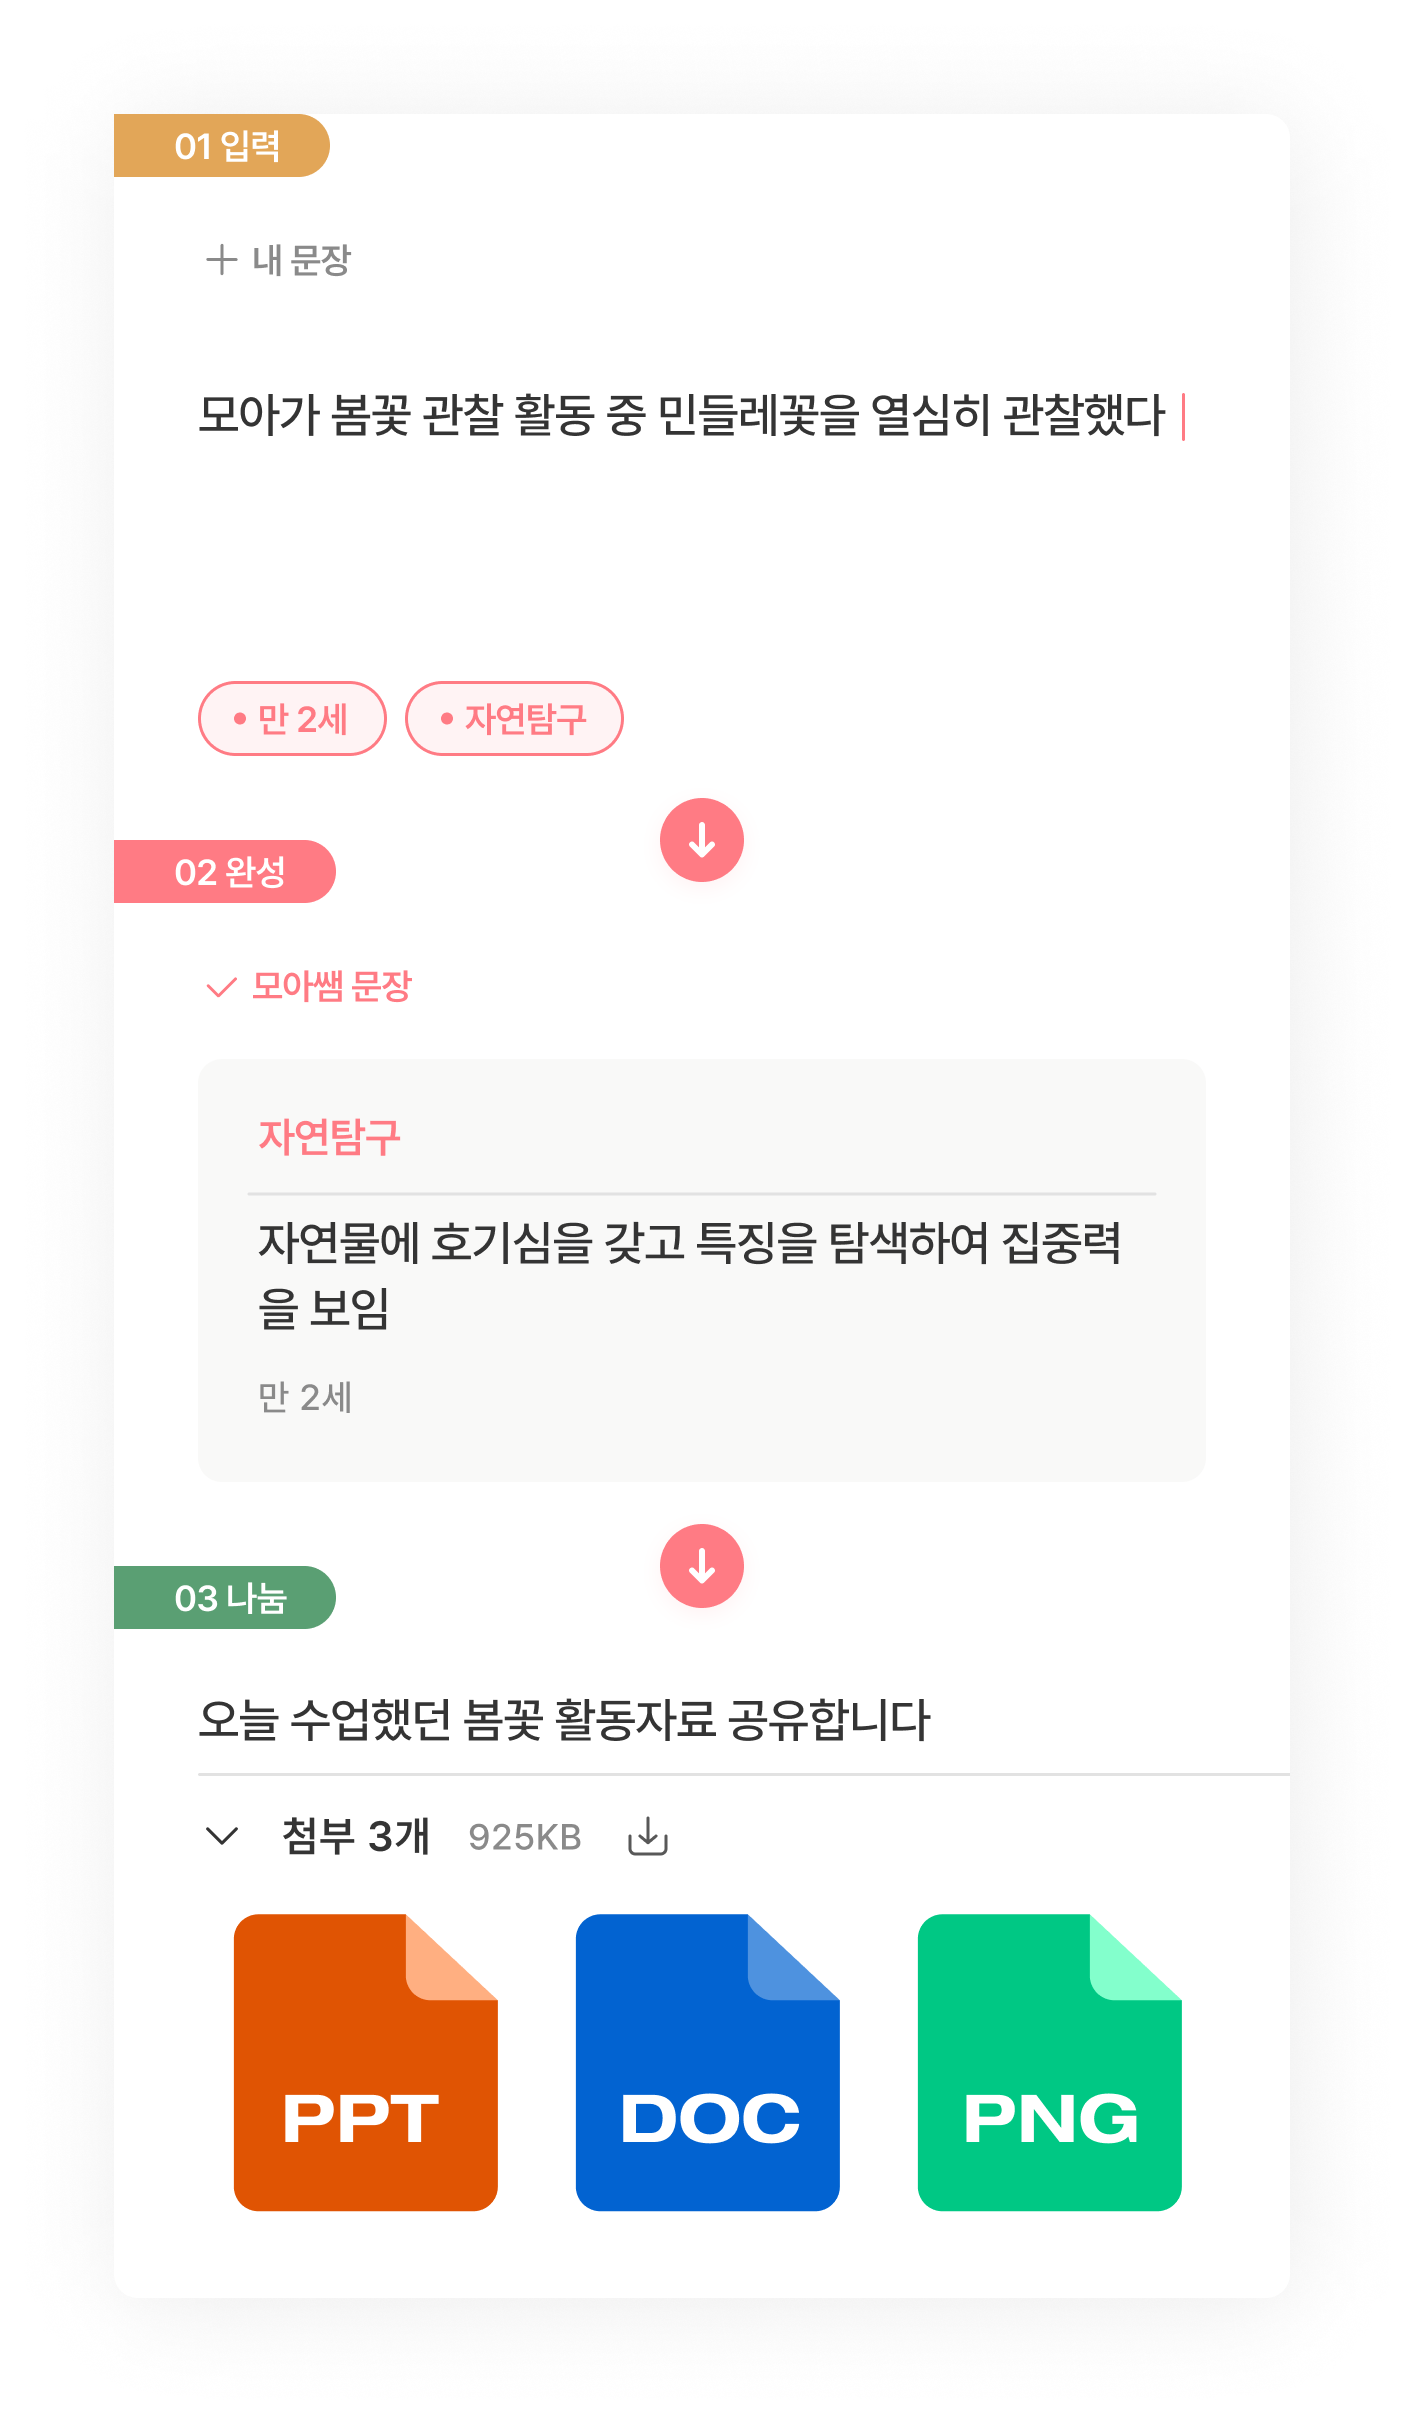
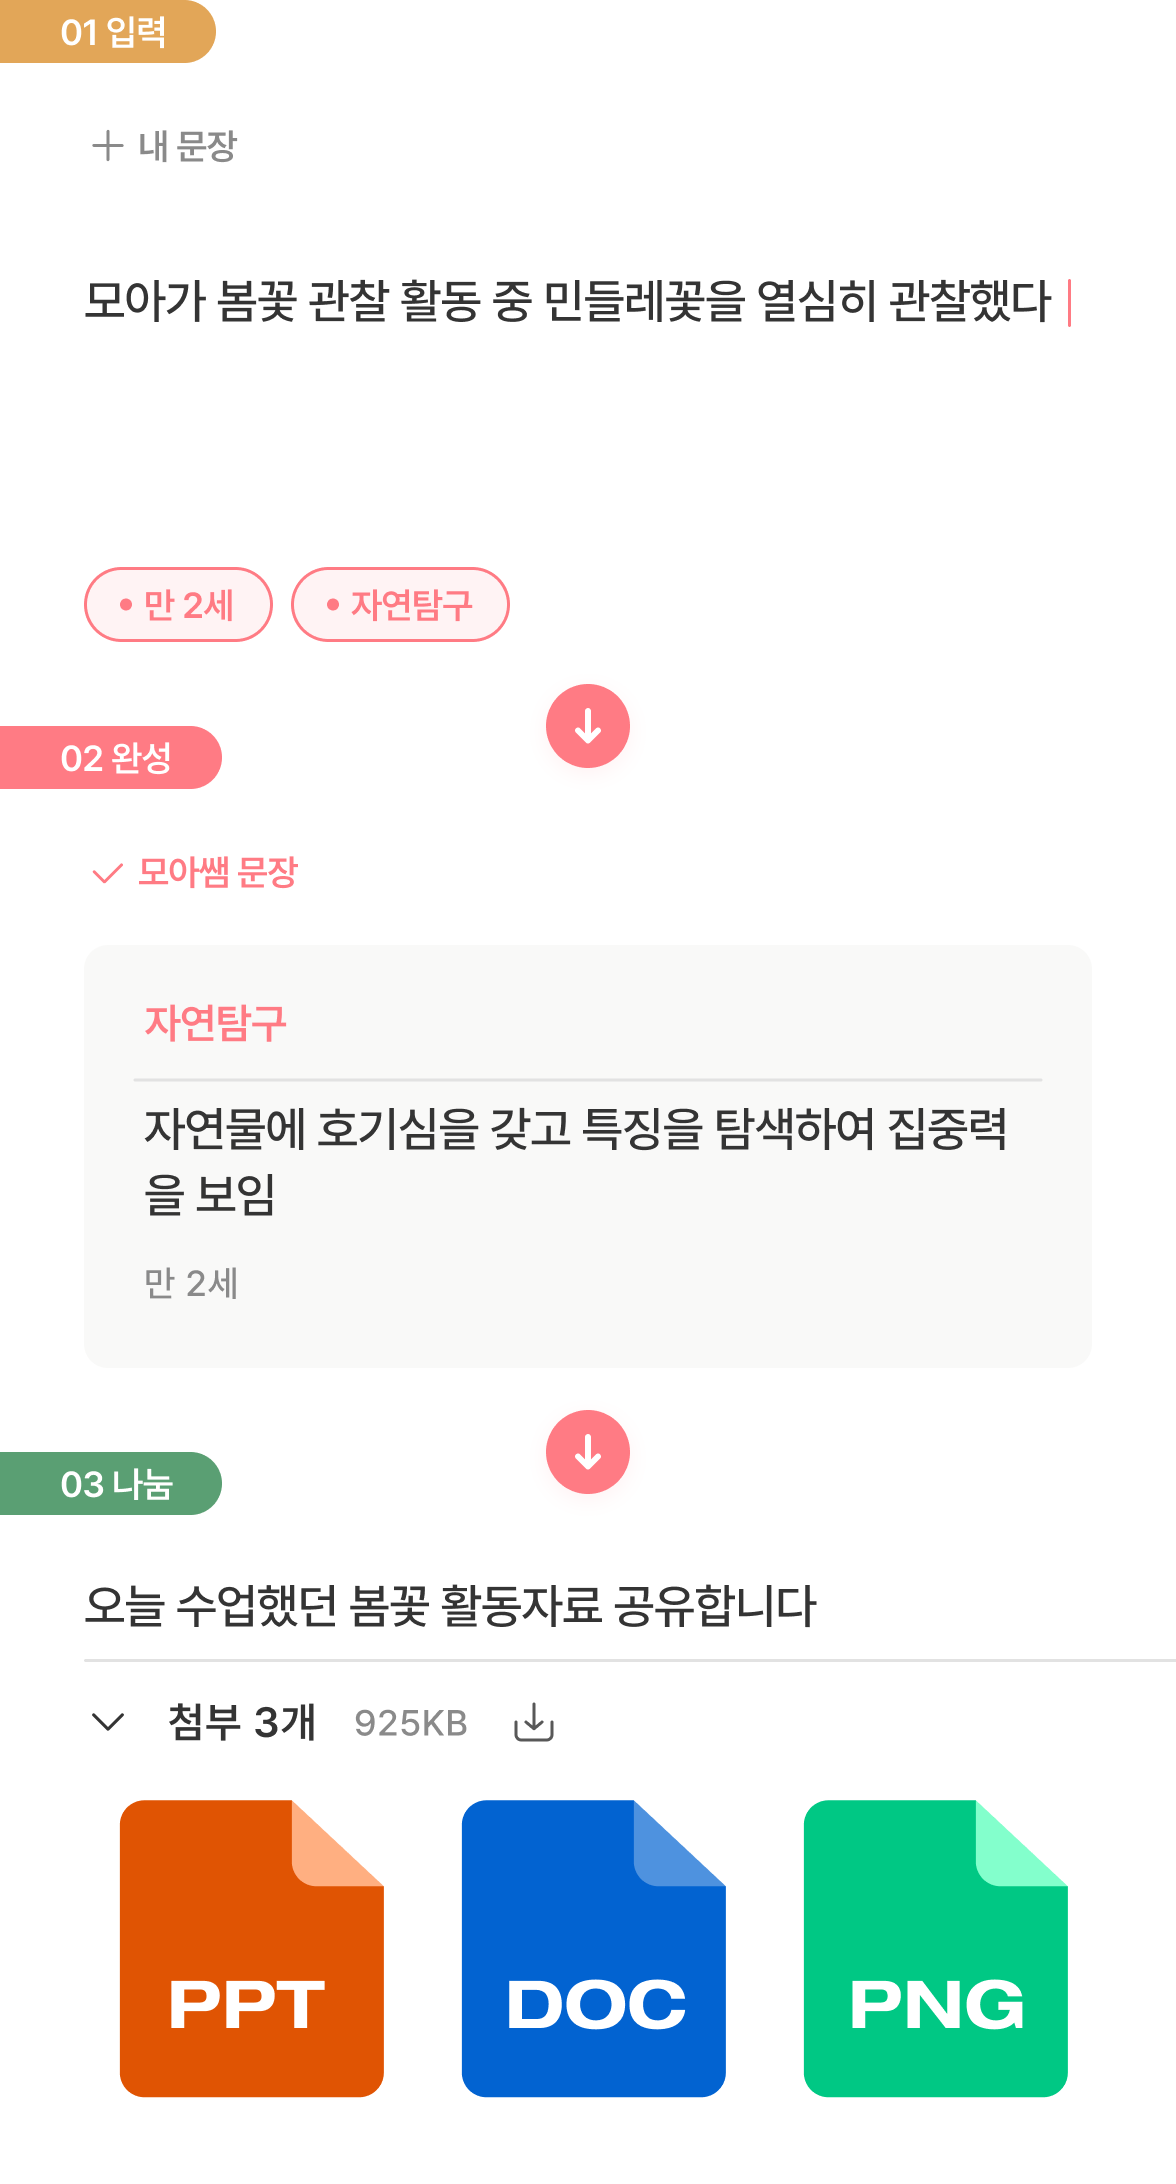
style: 비로그인 반응형 사이즈 css 점검 및 수정 (#67)

diff --git a/components/home/SolutionSection.tsx b/components/home/SolutionSection.tsx
@@ -16,7 +16,7 @@ interface SolutionSectionProps {
 export default function SolutionSection({ isLoggedIn = true }: SolutionSectionProps) {
   return (
     <section className="w-full bg-black-50 py-15 md:pt-17.5 md:pb-25" aria-label="해결방법 섹션">
-      <div className="mx-auto w-full max-w-[392px] md:max-w-293">
+      <div className="mx-auto w-full max-w-[416px] md:max-w-293">
         {/* 상단: 헤드라인 + 코멘트 */}
         <div className="flex flex-col items-center gap-4 md:flex-row md:items-start md:justify-between">
           <div className="flex flex-col items-center gap-4 md:items-start">
@@ -54,7 +54,7 @@ export default function SolutionSection({ isLoggedIn = true }: SolutionSectionPr
         </div>
 
         {/* CTA */}
-        <div className="mt-10 flex justify-center">
+        <div className="mt-7.5 flex justify-center md:mt-15">
           <Button variant="primary" size="md" className="h-13 w-57.5 text-[20px]">
             {isLoggedIn ? '커뮤니티 시작하기 >' : '3초 간편 로그인 시작 >'}
           </Button>

diff --git a/components/home/PainPointSection.tsx b/components/home/PainPointSection.tsx
@@ -35,7 +35,11 @@ export default function PainPointSection({ isLoggedIn = false }: PainPointSectio
               <Image src={PainPointCard3Md} alt="페인포인트 카드 3" className="w-[270px]" />
             </div>
           ) : (
-            <Image src={PainPointMd} alt="페인포인트 예시" className="w-full md:hidden" />
+            <Image
+              src={PainPointMd}
+              alt="페인포인트 예시"
+              className="w-full max-w-[300px] md:hidden"
+            />
           )}
         </div>
       </div>

diff --git a/components/home/HeroSection.tsx b/components/home/HeroSection.tsx
@@ -55,7 +55,7 @@ function LoggedOutHero() {
   return (
     <>
       {/* 텍스트 영역 */}
-      <div className="flex w-full flex-col items-center pt-16 pb-15">
+      <div className="flex w-full flex-col items-center pt-15 pb-10">
         {/* NEW 뱃지 줄 */}
         <div className="flex items-center gap-2 rounded-[22px] border border-black-300 bg-white py-[5.5px] pr-3.5 pl-2">
           <Badge label="NEW" variant="pink-light" />

diff --git a/app/page.tsx b/app/page.tsx
@@ -6,9 +6,9 @@ import SolutionSection from '@/components/home/SolutionSection';
 export default function Home() {
   return (
     <div className="min-w-[600px] bg-black-100">
-      <HeroSection isLoggedIn={true} />
+      <HeroSection isLoggedIn={false} />
       <ServiceSection />
-      <PainPointSection isLoggedIn={true} />
+      <PainPointSection isLoggedIn={false} />
       <SolutionSection isLoggedIn={false} />
     </div>
   );
